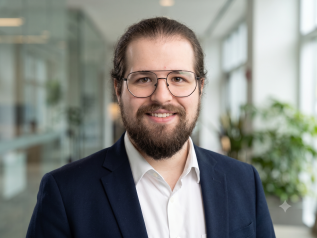
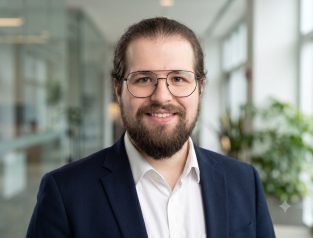
fix(navbar): refine nav pill alignment, text centering, spacing, and crop hero profile image artifact

diff --git a/styles.css b/styles.css
@@ -85,14 +85,33 @@ h3 { font-size: 1.25rem; margin-bottom: 0.5rem; }
   background: rgba(0, 0, 0, 0.96); backdrop-filter: blur(12px);
   padding: 1rem 0; border-bottom: 1px solid var(--border-color);
 }
-.nav { display: flex; justify-content: space-between; align-items: center; }
+.nav { display: flex; justify-content: space-between; align-items: center; gap: 1.5rem; }
 .logo {
   display: flex; align-items: center; gap: 0.75rem;
   font-weight: 700; color: #fff; font-size: 1.1rem;
+  flex-shrink: 0;
 }
+.logo-text { white-space: nowrap; }
 .logo svg { color: var(--accent-cyan); }
-.nav-links { display: flex; gap: 2rem; }
-.nav-links a { color: var(--text-secondary); font-size: 0.85rem; background: #0a0a0a; border: 1px solid #27272a; padding: 0.4rem 1rem; border-radius: 99px; transition: all 0.3s; }
+.nav-links {
+  display: flex;
+  align-items: center;
+  gap: 0.55rem;
+}
+.nav-links a {
+  display: inline-flex;
+  align-items: center;
+  justify-content: center;
+  color: var(--text-secondary);
+  font-size: 0.82rem;
+  line-height: 1;
+  white-space: nowrap;
+  background: #0a0a0a;
+  border: 1px solid #27272a;
+  padding: 0.42rem 0.85rem;
+  border-radius: 99px;
+  transition: all 0.3s;
+}
 .nav-links a:hover, .nav-links a.active { color: #fff; background: #18181b; border-color: var(--accent-cyan); }
 
 /* HERO */
@@ -218,7 +237,11 @@ h3 { font-size: 1.25rem; margin-bottom: 0.5rem; }
   h1 { font-size: 2.5rem; }
   .stats-row { flex-wrap: wrap; }
 }
-@media (max-width: 600px) { .nav-links { display: none; } }
+@media (max-width: 1080px) {
+  .nav-links { gap: 0.35rem; }
+  .nav-links a { padding: 0.35rem 0.65rem; font-size: 0.78rem; }
+}
+@media (max-width: 768px) { .nav-links { display: none; } }
 
 
 /* Profile Logo in Header */

diff --git a/index.html b/index.html
@@ -13,7 +13,7 @@
   <link rel="preconnect" href="https://fonts.googleapis.com" />
   <link rel="preconnect" href="https://fonts.gstatic.com" crossorigin />
   <link href="https://fonts.googleapis.com/css2?family=Inter:wght@400;500;600;700;800;900&family=JetBrains+Mono:wght@400;500;700&display=swap" rel="stylesheet" />
-  <link rel="stylesheet" href="styles.css" />
+  <link rel="stylesheet" href="styles.css?v=20261015b" />
 </head>
 <body>
   <canvas id="particles" aria-hidden="true"></canvas>
